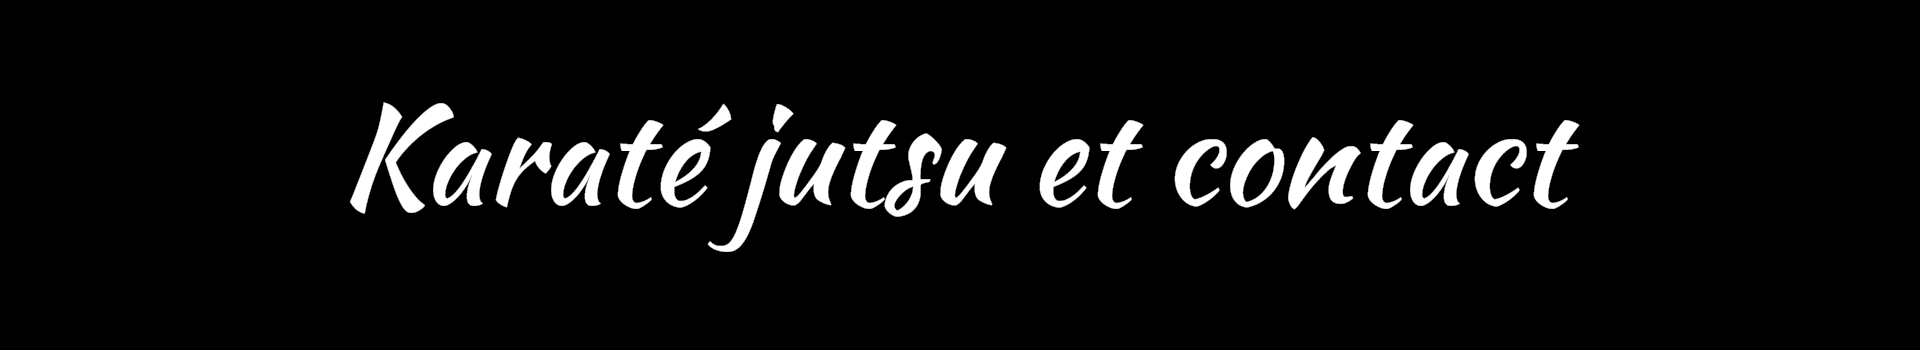
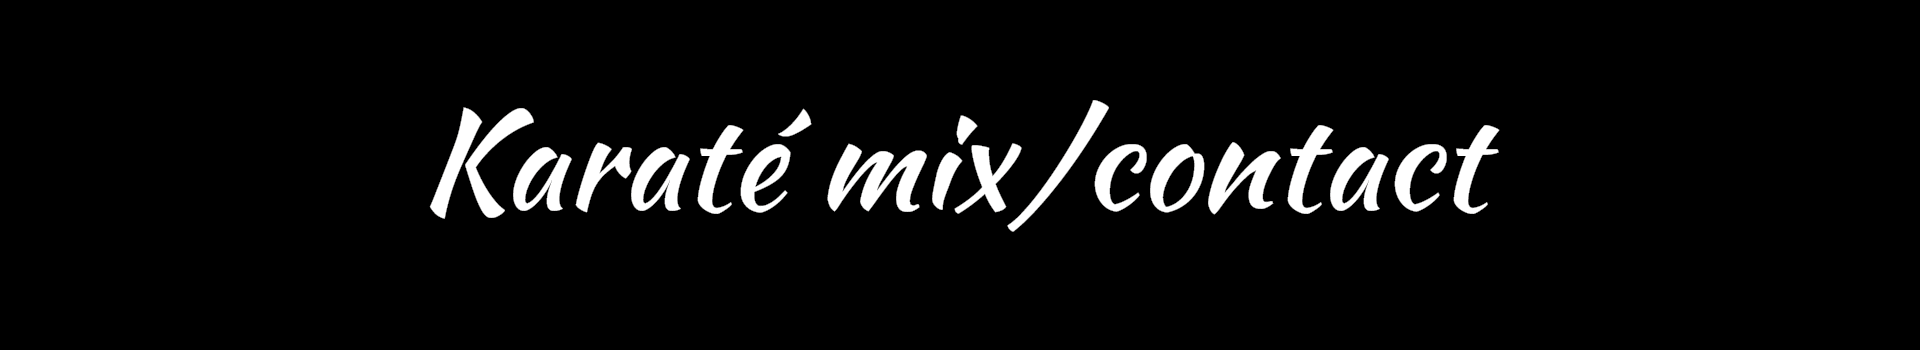
modif acceuil

Changed region(s): [[0.1562, 0.2857, 0.8438, 0.7143], [0.5, 0.6286, 0.5312, 0.6571]]

diff --git a/SITE WEB KARATE/accueil.html b/SITE WEB KARATE/accueil.html
@@ -6,14 +6,10 @@
     <meta http-equiv="X-UA-Compatible" content="ie=edge">
     <script src="http://code.jquery.com/jquery-2.2.1.min.js"></script>
     <!--CSS-->
-    <!-- BOOTDTRAP 4.3.1 -->
-    <!-- <link rel="stylesheet" href="../SITE WEB KARATE/bootstrap-4.3.1/css/bootstrap.css"> -->
-    <link rel="stylesheet" href="../SITE WEB KARATE/bootstrap-4.4.1-dist/css/bootstrap.css">
+    <link rel="stylesheet" href="../SITE WEB KARATE/bootstrap-4.3.1/css/bootstrap.css">
     <link rel="stylesheet" href="../SITE WEB KARATE/asset/app.css">
     <!--JS-->
-    <!-- BOOTDTRAP 4.3.1 -->
-    <!-- <script async src="../SITE WEB KARATE/bootstrap-4.3.1/js/bootstrap.js"></script> -->
-    <script async src="../SITE WEB KARATE/bootstrap-4.4.1-dist/js/bootstrap.js"></script>
+    <script async src="../SITE WEB KARATE/bootstrap-4.3.1/js/bootstrap.js"></script>
     <script async src="../SITE WEB KARATE/asset/app.js"></script>
     <link rel="stylesheet" type="text/css" href="asset/Accueil.css">
     <title>Accueil</title>
@@ -23,7 +19,7 @@
         <h1 style="text-align: center; font-size: 2vw;"><img id="logo" src="../SITE WEB KARATE/asset/img/Logo USMBM Wado Kan.jpg" alt="logo usmb wado-kan" width="42" height="42">USMBM Wado-Kan (Karaté Montsoult, Baillet-en-France, Maffliers)<img id="logo" src="../SITE WEB KARATE/asset/img/Logo USMBM Wado Kan.jpg" alt="logo usmb wado-kan" width="42" height="42"></h1>
         <nav class="navbar navbar-expand-lg navbar-dark bg-primary" class="back-color" data-toggle="sticky-onscroll">
             <!--Important pour le responsive-->
-            <a class="navbar-brand" href="../SITE WEB KARATE/accueil.html">Accueil</a>
+            <a class="navbar-brand" href="../SITE WEB KARATE/acceuil-Mathieu.html">Acceuil</a>
             <button class="navbar-toggler" type="button" data-toggle="collapse" data-target="#navbarDD" aria-controls="navbarDD" aria-expanded="false" aria-label="Navigation">
                 <span class="navbar-toggler-icon"></span>
             </button>
@@ -36,7 +32,7 @@
                         <ul class="dropdown-menu bg-primary">
                             <li><a class="dropdown-item sous-aprop-hover" href="#">Histoire du Club</a></li>
                             <li><a class="dropdown-item sous-aprop-hover" href="../SITE WEB KARATE/Senseis.html">Equipe pédagogique</a></li>
-                            <li><a class="dropdown-item sous-aprop-hover" href="../SITE WEB KARATE/LabelCancer.html">Labels</a></li>
+                            <li><a class="dropdown-item sous-aprop-hover" href="../SITE WEB KARATE/Labels.html">Labels</a></li>
                         </ul>
                     </li>
                     <li class="nav-item">
@@ -123,7 +119,7 @@
                         </ul>
                     </li>
                     <li class="nav-item">
-                        <a class="nav-link" id="galerie-hover" href="../SITE WEB KARATE/galerie.html">Galerie<span class="sr-only">(current)</span></a>
+                        <a class="nav-link" id="galerie-hover" href="#">Galerie<span class="sr-only">(current)</span></a>
                     </li>
                     <li class="nav-item">
                         <a class="nav-link" id="contact-hover" href="../SITE WEB KARATE/Apropos.html">Contact<span class="sr-only">(current)</span></a>
@@ -149,8 +145,7 @@
 
                     </a>
                      <div class="carousel-caption d-none d-md-block">
-                      <h5>Le Karaté mix/contact</h5>
-                         <p>Le Karaté mix/contact, la synthèse des arts martiaux. Pour les pratiquants qui souhaitent réunir les composantes de percussions debout, projections, immobilisations et soumissions.</p>
+                             <p>Le Karaté mix/contact, la synthèse des arts martiaux. Pour les pratiquants qui souhaitent réunir les composantes de percussions debout, projections, immobilisations et soumissions.</p>
                      </div>
                 </div>
                 <div class="carousel-item">
@@ -159,7 +154,7 @@
                     </a>
                     <div class="carousel-caption d-none d-md-block">
                     <h5>Le Karaté traditionnel</h5>
-                         <p>pour tous, des plus jeunes aux séniors en quête d’un art martial à la fois complet et efficace, basé sur l’esquive, le respect de soi et de l’autre.</p>
+                         <p>Pour tous, des plus jeunes aux séniors en quête d’un art martial à la fois complet et efficace, basé sur l’esquive, le respect de soi et de l’autre.</p>
                      </div>
                 </div>
                 <div class="carousel-item">
@@ -167,26 +162,24 @@
                         <img class="d-block w-100" src="../SITE WEB KARATE/asset/img/carousel3.png" alt="Third slide">
                     </a>
                     <div class="carousel-caption d-none d-md-block">
-                    <h5>Le Body karaté</h5>
-                         <p>pour celles et ceux qui recherchent un moment de défoulement et de remise en forme en musique.</p>
+                         <p>Pour celles et ceux qui recherchent un moment de défoulement et de remise en forme en musique.</p>
                      </div>
                 </div>
                 <div class="carousel-item">
                     <a href="#">
-                        <img class="d-block w-100" src="../SITE WEB KARATE/asset/img/carousel2.png" alt="Second slide">
+                        <img class="d-block w-100" src="../SITE WEB KARATE/asset/img/carousel4.png" alt="Second slide">
                     </a>
                     <div class="carousel-caption d-none d-md-block">
-                    <h5>Le Karaté compétition(kata & combat)</h5>
-                         <p>pour les plus fougueux qui aiment se mesurer aux autres et à eux-mêmes</p>
+                    <h5>Kata & Combat</h5>
+                         <p>Pour les plus fougueux qui aiment se mesurer aux autres et à eux-mêmes</p>
                      </div>
                 </div>
                 <div class="carousel-item">
                     <a href="#">
-                        <img class="d-block w-100" src="../SITE WEB KARATE/asset/img/carousel2.png" alt="Second slide">
+                        <img class="d-block w-100" src="../SITE WEB KARATE/asset/img/carousel5.png" alt="Second slide">
                     </a>
                     <div class="carousel-caption d-none d-md-block">
-                    <h5>Le Baby karaté</h5>
-                         <p>à partir de 3 ans, basé sur de la motricité globale à travers un éveil au karaté ludique (Club labellisé Baby Karaté par la FFK).</p>
+                         <p>À partir de 3 ans, basé sur de la motricité globale à travers un éveil au karaté ludique (Club labellisé Baby Karaté par la FFK).</p>
                      </div>
                 </div>
             </div>
@@ -217,7 +210,7 @@
         <br>
         <br>
         <div class="footer-copyright text-center py-3">
-          © 2019 USMBM Wado-Kan : Tous droits réservés.
+          © 2019 USMBM Wado-Kan: Tous droit réservés.
         </div>
       </footer>
 </body>

diff --git a/SITE WEB KARATE/galerie.html b/SITE WEB KARATE/galerie.html
@@ -150,7 +150,7 @@
                             <a class="lightbox" href="../SITE WEB KARATE/asset/img/galerie/DSCF2039.jpg"><img src="../SITE WEB KARATE/asset/img/galerie/DSCF2039.jpg" alt="" class="card-img-top"></a>
                     </div>
                     <div class="col-xs-6 col-md-4">
-                            <a class="lightbox" href="../SITE WEB KARATE/asset/img/galerie/DSCF2067.jpg"><img src="../SITE WEB KARATE/asset/img/galerie/DSCF2067.jpg" alt="" class="card-img-top"></a>
+                        <a class="lightbox" href="../SITE WEB KARATE/asset/img/galerie/DSCF3132.jpg"><img src="../SITE WEB KARATE/asset/img/galerie/DSCF3132.jpg" alt="" class="card-img-top"></a>
                     </div>
                     <div class="col-xs-6 col-md-4">
                             <a class="lightbox" href="../SITE WEB KARATE/asset/img/galerie/DSCF2074.jpg"><img src="../SITE WEB KARATE/asset/img/galerie/DSCF2074.jpg" alt="" class="card-img-top"></a>
@@ -206,9 +206,6 @@
                 </div>
 
                 <div class="row"> 
-                    <div class="col-xs-6 col-md-4">
-                            <a class="lightbox" href="../SITE WEB KARATE/asset/img/galerie/DSCF3132.jpg"><img src="../SITE WEB KARATE/asset/img/galerie/DSCF3132.jpg" alt="" class="card-img-top"></a>
-                    </div>
                     <div class="col-xs-6 col-md-4">
                             <a class="lightbox" href="../SITE WEB KARATE/asset/img/galerie/DSCF3188.jpg"><img src="../SITE WEB KARATE/asset/img/galerie/DSCF3188.jpg" alt="" class="card-img-top"></a>
                     </div>

diff --git a/SITE WEB KARATE/Senseis.html b/SITE WEB KARATE/Senseis.html
@@ -354,7 +354,7 @@
       </section>
       <!-- Team -->
       <div class="info">
-        <p><strong>A noter : </strong>Tous les cours sont dispensé par des professeurs diplomés et chacun est susceptible d'intervenir dans n'importe quel cours que nous propoons.</p>
+        <p><strong>A noter : </strong>Tous les cours sont dispensé par des professeurs diplomés et chacun est susceptible d'intervenir dans n'importe quel cours que nous proposons.</p>
       </div>
     </main>
     <footer>
